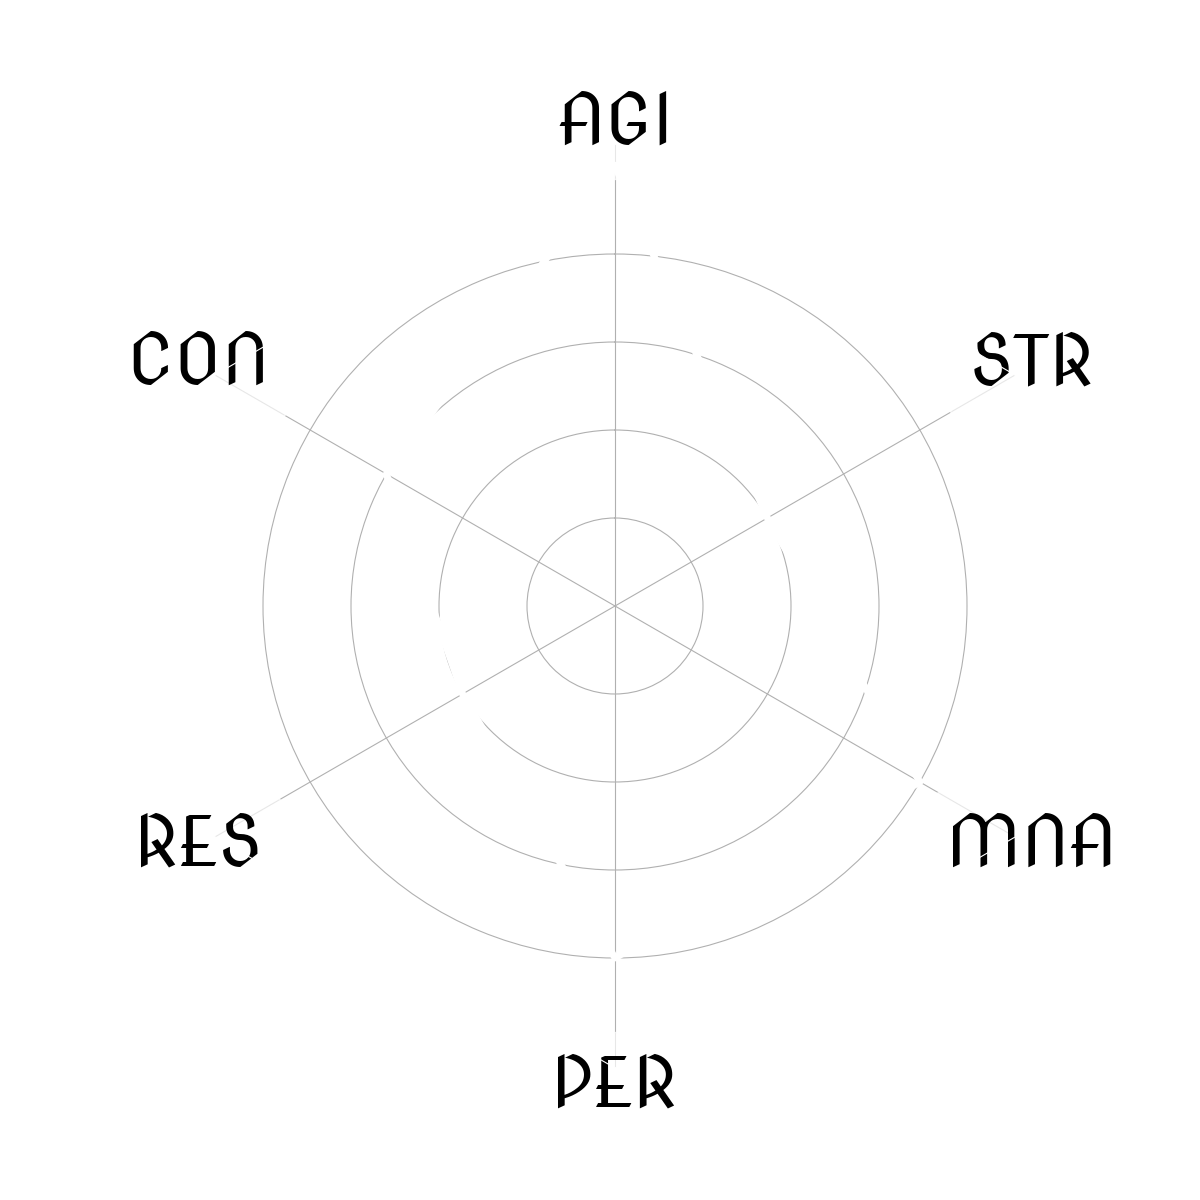
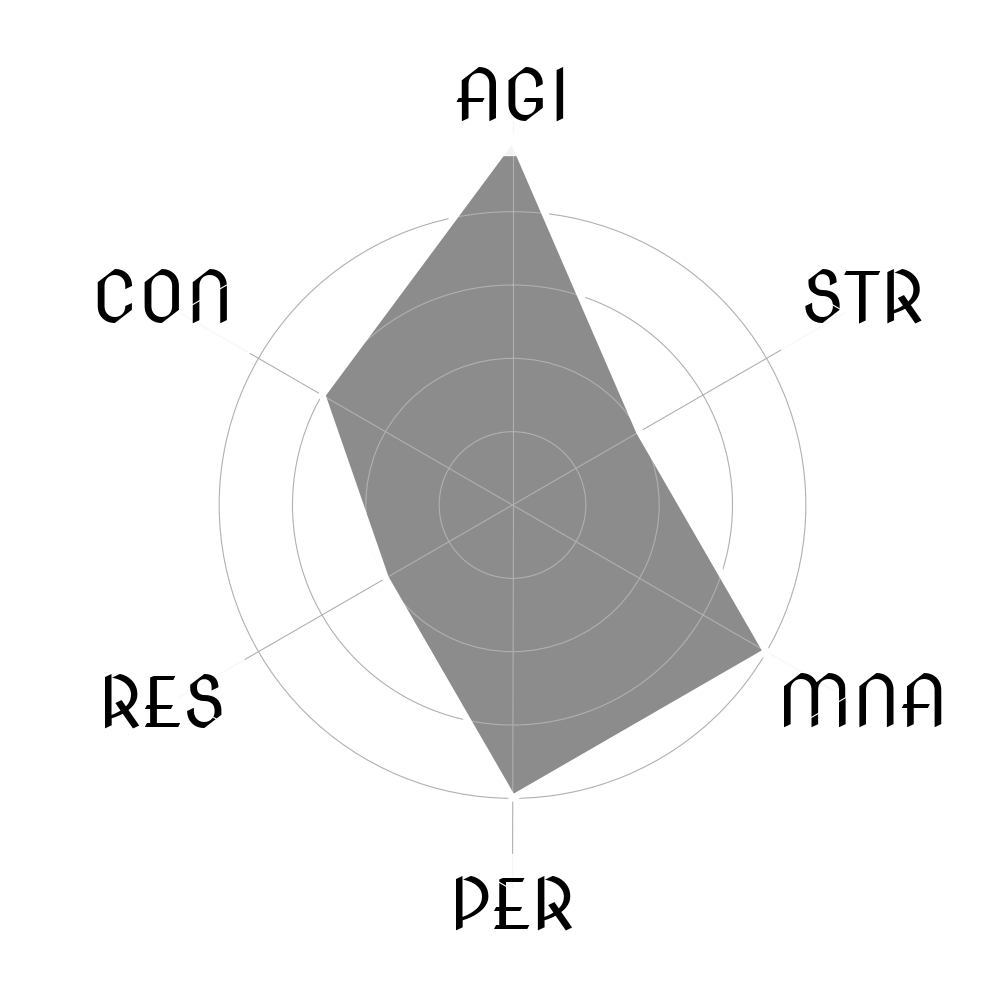
v2

diff --git a/gen.py b/gen.py
@@ -69,7 +69,7 @@ for i in range(0,5):
 
 frame = Image.new("RGBA", (2000,3000), (255,215,0))
 
-im = im.resize((round(im.size[0]*0.95), round(im.size[1]*0.97)))
+im = im.resize((round(im.size[0]*0.99), round(im.size[1]*0.995)))
 
 img_w, img_h = im.size
 bg_w, bg_h = frame.size
@@ -93,15 +93,15 @@ im.paste(raider_img, offset, raider_img)
 
 ## Adding title text
 
-title_font = ImageFont.truetype('fonts/Megrim-Regular.ttf', 180)
-subtitle_font = ImageFont.truetype('fonts/Megrim-Regular.ttf', 70)
+title_font = ImageFont.truetype('fonts/Syncopate-Bold.ttf', 180)
+subtitle_font = ImageFont.truetype('fonts/Megrim-Regular.ttf', 120)
 
-draw.text((1350,50), "Julian", font=title_font, fill=(255, 255, 255))
-draw.text((1450,250), "The Janitor", font=subtitle_font, full=(255,255,255))
+draw.text((1050,50), "Julian", font=title_font, fill=(255, 255, 255))
+draw.text((1250,220), "The Janitor", font=subtitle_font, full=(255,255,255))
 
 ## TEXT UNDERLINE
 
-draw.line([(1350, 350), (img_w, 350)], fill='white', width=1)
+draw.line([(1000, 380), (img_w, 400)], fill='white', width=5)
 
 ## Adding final logo
 
@@ -112,7 +112,7 @@ final_logo = final_logo.resize((round(final_logo.size[0]*0.4), round(final_logo.
 img_w, img_h = final_logo.size
 bg_w, bg_h = im.size
 
-offset = ((bg_w-img_w-675), (50))
+offset = ((50), (50))
 im.paste(final_logo, offset, final_logo)
 
 ## Adding stats
@@ -123,7 +123,7 @@ im.paste(final_logo, offset, final_logo)
 radar = Image.open('images/radar_1_1.png')
 
 img_w, img_h = radar.size
-offset = (math.floor(bg_w - (1.7*img_w)), (bg_h - img_h))
+offset = (math.floor(bg_w - (2*img_w)), (bg_h - img_h))
 
 im.paste(radar, offset, radar)
 

diff --git a/radar_gen.py b/radar_gen.py
@@ -14,7 +14,7 @@ from matplotlib import rcParams
 
 from PIL import Image
 
-bbox = dict(boxstyle="round", ec="white", fc="white", alpha=0.7)
+bbox = dict(boxstyle="round", ec="white", fc="white", alpha=0.9)
 
 prop = font_manager.FontProperties(fname='/Users/praneetkumarpandey/NFT/card-gen/fonts/NovaCut-Regular.ttf')
 rcParams.update({'font.family': prop.get_name(), 'axes.edgecolor': 'white', 'axes.labelcolor': 'white', 'font.size': 50})
@@ -131,15 +131,15 @@ def radar_gen(spread=DEFAULT_SPREAD):
     spoke_labels = data.pop(0)
     title, case_data = data[0]
 
-    fig, ax = plt.subplots(figsize=(12, 12), subplot_kw=dict(projection='radar'))
+    fig, ax = plt.subplots(figsize=(20, 20), subplot_kw=dict(projection='radar'))
 
     ax.set_rgrids([0, 1, 2, 3, 4], labels=['','','','',''], fmt=None)
 
     for d in case_data:
         line = ax.plot(theta, d, color='white', linewidth=5)
-        ax.fill(theta, d, color='white', alpha=0.5)
+        ax.fill(theta, d, color='grey', alpha=0.9)
     invis_line = ax.plot(theta, [0,1,2,3,4,5], color='white', alpha=0.0)
-    ax.set_varlabels(spoke_labels)
+    # ax.set_varlabels(spoke_labels)
 
 
     plt.savefig('images/radar_1_1.png', transparent=True)
